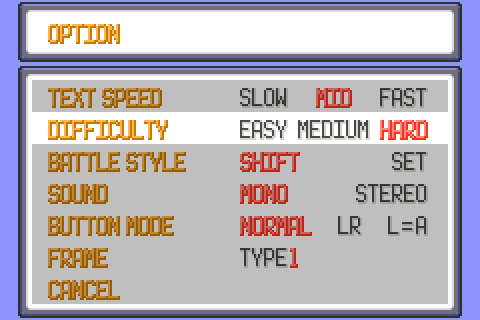
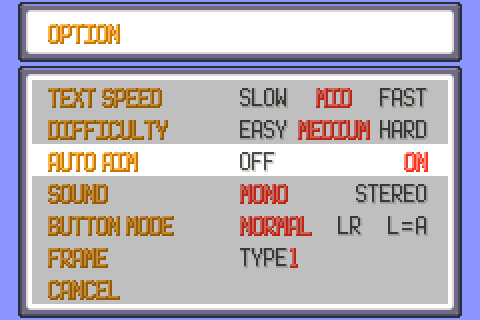
Faster intro and outro, AUTO AIM option
- intro: fighters can move after 45 frames (was 90)
- outro: holding A runs the ending 3x faster; A on the EXP panel fills
  the bars at once, another A closes it
- OPTION menu: AUTO AIM ON/OFF (replaces the unused BATTLE STYLE row);
  when on, a move button fires immediately at the closest foe

Claude-Session: https://claude.ai/code/session_013R2tMbz1MA74Zkb74ruqsw

Changed region(s): [[0.0625, 0.3438, 0.9375, 0.5625]]

diff --git a/src/option_menu.c b/src/option_menu.c
@@ -19,7 +19,7 @@
 #define tMenuSelection data[0]
 #define tTextSpeed data[1]
 #define tDifficulty data[2]   // replaces the battle scene option (battles are real-time): 0 easy, 1 medium, 2 hard
-#define tBattleStyle data[3]
+#define tBattleStyle data[3]  // shows the AUTO AIM toggle (battles are real-time): 0 off, 1 on
 #define tSound data[4]
 #define tButtonMode data[5]
 #define tWindowFrameType data[6]
@@ -80,7 +80,7 @@ static const u8 *const sOptionMenuItemsNames[MENUITEM_COUNT] =
 {
     [MENUITEM_TEXTSPEED]   = gText_TextSpeed,
     [MENUITEM_BATTLESCENE] = gText_RtDifficulty,
-    [MENUITEM_BATTLESTYLE] = gText_BattleStyle,
+    [MENUITEM_BATTLESTYLE] = gText_RtAutoAim,
     [MENUITEM_SOUND]       = gText_Sound,
     [MENUITEM_BUTTONMODE]  = gText_ButtonMode,
     [MENUITEM_FRAMETYPE]   = gText_Frame,
@@ -231,7 +231,7 @@ void CB2_InitOptionMenu(void)
         gTasks[taskId].tTextSpeed = gSaveBlock2Ptr->optionsTextSpeed;
         // saved 0 medium / 1 easy / 2 hard -> menu 0 easy / 1 medium / 2 hard
         gTasks[taskId].tDifficulty = gSaveBlock2Ptr->optionsRtDifficulty == 1 ? 0 : (gSaveBlock2Ptr->optionsRtDifficulty == 2 ? 2 : 1);
-        gTasks[taskId].tBattleStyle = gSaveBlock2Ptr->optionsBattleStyle;
+        gTasks[taskId].tBattleStyle = gSaveBlock2Ptr->optionsRtAutoAim;
         gTasks[taskId].tSound = gSaveBlock2Ptr->optionsSound;
         gTasks[taskId].tButtonMode = gSaveBlock2Ptr->optionsButtonMode;
         gTasks[taskId].tWindowFrameType = gSaveBlock2Ptr->optionsWindowFrameType;
@@ -353,7 +353,7 @@ static void Task_OptionMenuSave(u8 taskId)
 {
     gSaveBlock2Ptr->optionsTextSpeed = gTasks[taskId].tTextSpeed;
     gSaveBlock2Ptr->optionsRtDifficulty = gTasks[taskId].tDifficulty == 0 ? 1 : (gTasks[taskId].tDifficulty == 2 ? 2 : 0);
-    gSaveBlock2Ptr->optionsBattleStyle = gTasks[taskId].tBattleStyle;
+    gSaveBlock2Ptr->optionsRtAutoAim = gTasks[taskId].tBattleStyle;
     gSaveBlock2Ptr->optionsSound = gTasks[taskId].tSound;
     gSaveBlock2Ptr->optionsButtonMode = gTasks[taskId].tButtonMode;
     gSaveBlock2Ptr->optionsWindowFrameType = gTasks[taskId].tWindowFrameType;
@@ -477,8 +477,8 @@ static void BattleStyle_DrawChoices(u8 selection)
     styles[1] = 0;
     styles[selection] = 1;
 
-    DrawOptionMenuChoice(gText_BattleStyleShift, 104, YPOS_BATTLESTYLE, styles[0]);
-    DrawOptionMenuChoice(gText_BattleStyleSet, GetStringRightAlignXOffset(FONT_NORMAL, gText_BattleStyleSet, 198), YPOS_BATTLESTYLE, styles[1]);
+    DrawOptionMenuChoice(gText_BattleSceneOff, 104, YPOS_BATTLESTYLE, styles[0]);
+    DrawOptionMenuChoice(gText_BattleSceneOn, GetStringRightAlignXOffset(FONT_NORMAL, gText_BattleSceneOn, 198), YPOS_BATTLESTYLE, styles[1]);
 }
 
 static u8 Sound_ProcessInput(u8 selection)

diff --git a/src/rt_main.c b/src/rt_main.c
@@ -746,7 +746,7 @@ static void Rt_UpdateIntro(void)
             PlayCry_Normal(e0->species, 25);
         }
     }
-    if (gRt->timer == 50 && !gRt->isSafari)
+    if (gRt->timer == 20 && !gRt->isSafari)
     {
         struct RtActor *p = Rt_PlayerActor();
         GetMonData(p->mon, MON_DATA_NICKNAME, gStringVar1);
@@ -757,7 +757,7 @@ static void Rt_UpdateIntro(void)
     for (i = 0; i < RT_MAX_ACTORS; i++)
         if (gRt->actors[i].active)
             RtActor_Update(&gRt->actors[i]);
-    if (gRt->timer >= 90)
+    if (gRt->timer >= 45)
     {
         gRt->state = RTS_FIGHT;
         gRt->timer = 0;
@@ -925,6 +925,30 @@ static u8 Rt_AssistAim(struct RtActor *a, u8 angle)
     return best;
 }
 
+// AUTO AIM option: the angle to the closest foe on the field (FALSE when there is none)
+static bool8 Rt_AutoAimAngle(struct RtActor *a, u8 *angle)
+{
+    s32 i, bestD = 0x7FFFFFFF;
+    bool8 found = FALSE;
+    for (i = 0; i < RT_MAX_ACTORS; i++)
+    {
+        struct RtActor *b = &gRt->actors[i];
+        s32 dx, dy, d;
+        if (!b->active || b->side == a->side || !RtActor_IsAlive(b) || !Rt_IsActorOnField(b) || b->hidden)
+            continue;
+        dx = FROM_FX(b->x - a->x);
+        dy = FROM_FX(b->y - a->y);
+        d = dx * dx + dy * dy;
+        if (d < bestD)
+        {
+            bestD = d;
+            *angle = RtAtan2(dx, dy);
+            found = TRUE;
+        }
+    }
+    return found;
+}
+
 static void Rt_HandlePlayerInput(struct RtActor *a)
 {
     u16 held = gMain.heldKeysRaw;
@@ -985,6 +1009,15 @@ static void Rt_HandlePlayerInput(struct RtActor *a)
     {
         for (i = 0; i < MAX_MON_MOVES; i++)
         {
+            u8 autoAng;
+            if ((pressed & sMoveButtons[i]) && a->moves[i] != MOVE_NONE
+             && gSaveBlock2Ptr->optionsRtAutoAim && Rt_AutoAimAngle(a, &autoAng))
+            {
+                // AUTO AIM: fire right away, straight at the closest foe
+                a->inSlot = i;
+                a->inAim = autoAng;
+                break;
+            }
             if ((pressed & sMoveButtons[i]) && a->moves[i] != MOVE_NONE)
             {
                 a->aiming = i + 1;
@@ -1608,7 +1641,8 @@ static void Rt_SyncAllToParty(void)
 static void Rt_UpdateOutro(void)
 {
     s32 i;
-    gRt->timer++;
+    // holding A speeds the whole ending up
+    gRt->timer += (gMain.heldKeys & A_BUTTON) ? 3 : 1;
     // keep animating actors lightly
     for (i = 0; i < RT_MAX_ACTORS; i++)
     {

diff --git a/src/rt_ui.c b/src/rt_ui.c
@@ -2054,14 +2054,23 @@ bool8 RtUi_ExpPanelStart(void)
 
 bool8 RtUi_ExpPanelUpdate(void)
 {
-    sExpTimer++;
-    if (sExpTimer <= 60 && (sExpTimer & 1) == 0)
+    bool8 press = (gMain.newKeys & (A_BUTTON | B_BUTTON)) != 0;
+    if (press && sExpTimer < 60)
     {
-        DrawExpPanel(sExpTimer);
+        // A while the bars fill: jump to the end
+        sExpTimer = 60;
+        DrawExpPanel(60);
+        PlaySE(SE_EXP);
+        return FALSE;
+    }
+    sExpTimer += (gMain.heldKeys & A_BUTTON) ? 3 : 1;
+    if (sExpTimer <= 62)
+    {
+        DrawExpPanel(sExpTimer > 60 ? 60 : sExpTimer);
         if ((sExpTimer & 7) == 0)
             PlaySE(SE_EXP);
     }
-    if ((sExpTimer > 70 && (gMain.newKeys & (A_BUTTON | B_BUTTON))) || sExpTimer > 240)
+    if ((sExpTimer > 60 && press) || sExpTimer > 150)
     {
         ClearWindowTilemap(WIN_EXP);
         CopyWindowToVram(WIN_EXP, COPYWIN_MAP);

diff --git a/src/strings.c b/src/strings.c
@@ -1476,6 +1476,7 @@ const u8 gText_Option[] = _("OPTION");
 const u8 gText_TextSpeed[] = _("TEXT SPEED");
 const u8 gText_BattleScene[] = _("BATTLE SCENE");
 const u8 gText_RtDifficulty[] = _("DIFFICULTY");
+const u8 gText_RtAutoAim[] = _("AUTO AIM");
 const u8 gText_RtDifficultyEasy[] = _("{COLOR GREEN}{SHADOW LIGHT_GREEN}EASY");
 const u8 gText_RtDifficultyMedium[] = _("{COLOR GREEN}{SHADOW LIGHT_GREEN}MEDIUM");
 const u8 gText_RtDifficultyHard[] = _("{COLOR GREEN}{SHADOW LIGHT_GREEN}HARD");

diff --git a/include/global.h b/include/global.h
@@ -523,6 +523,7 @@ struct SaveBlock2
              u16 optionsBattleSceneOff:1; // whether battle animations are disabled
              u16 regionMapZoom:1; // whether the map is zoomed in
              u16 optionsRtDifficulty:2; // real-time battle AI: 0 medium (default), 1 easy, 2 hard
+             u16 optionsRtAutoAim:1; // real-time battles: moves aim at the foe by themselves
              //u16 padding1:4;
              //u16 padding2;
     /*0x18*/ struct Pokedex pokedex;

diff --git a/include/strings.h b/include/strings.h
@@ -312,6 +312,7 @@ extern const u8 gText_OptionMenu[];
 extern const u8 gText_TextSpeed[];
 extern const u8 gText_BattleScene[];
 extern const u8 gText_RtDifficulty[];
+extern const u8 gText_RtAutoAim[];
 extern const u8 gText_RtDifficultyEasy[];
 extern const u8 gText_RtDifficultyMedium[];
 extern const u8 gText_RtDifficultyHard[];

diff --git a/README.md b/README.md
@@ -40,6 +40,8 @@ Todas as batalhas viram ação: selvagens, treinadores, líderes, batalhas dupla
 - **Encontros equilibrados:** em cada grama/água/rocha/vara, toda espécie da área tem a mesma chance (8 espécies → 12,5% cada). Todos os 386 Pokémon podem ser capturados na natureza, inclusive os bebês (Pichu, Elekid, Magby, Smoochum, Tyrogue, Cleffa, Igglybuff) — sem breeding.
 - **POKé BALL infinita:** sempre há pelo menos uma POKé BALL comum na bolsa e ela não é gasta ao ser lançada; as outras bolas são consumidas normalmente.
 - **Painel de EXP no fim da batalha:** cada Pokémon que ganhou experiência aparece com a barra enchendo do ponto em que estava até o atual (com subida de nível) e o total ganho.
+- **AUTO AIM (menu OPTION, ON/OFF):** ligado, apertar o botão de um golpe dispara na hora, mirando direto no inimigo mais próximo (sem mira manual). Ocupa a linha BATTLE STYLE, que não tinha efeito.
+- **Ritmo:** a abertura da batalha leva metade do tempo de antes; no fim, segurar **A** acelera tudo, e apertar **A** no painel de EXP completa as barras na hora (outro **A** fecha).
 - **Fôlego pós-batalha:** ao vencer (ou capturar), cada Pokémon do time que lutou recupera 30% do HP máximo — inclusive os que desmaiaram, que voltam a ficar de pé.
 - **Regras originais preservadas:** fórmula de dano da 3ª geração, tipos, STAB, críticos, habilidades, itens segurados, berries, status, estágios de atributo, clima, experiência (Exp. Share, Lucky Egg, Pokémon trocados), dinheiro, Pay Day, Pickup, captura (fórmula original com multiplicadores de cada Poké Ball), apelido, aprender golpes e evolução.
 - **IA** com nível de habilidade por classe de treinador: escolhe alvos e golpes, mantém distância ideal, desvia de projéteis, contorna obstáculos (pathfinding em grade) e usa itens (Potions, X Items…).
